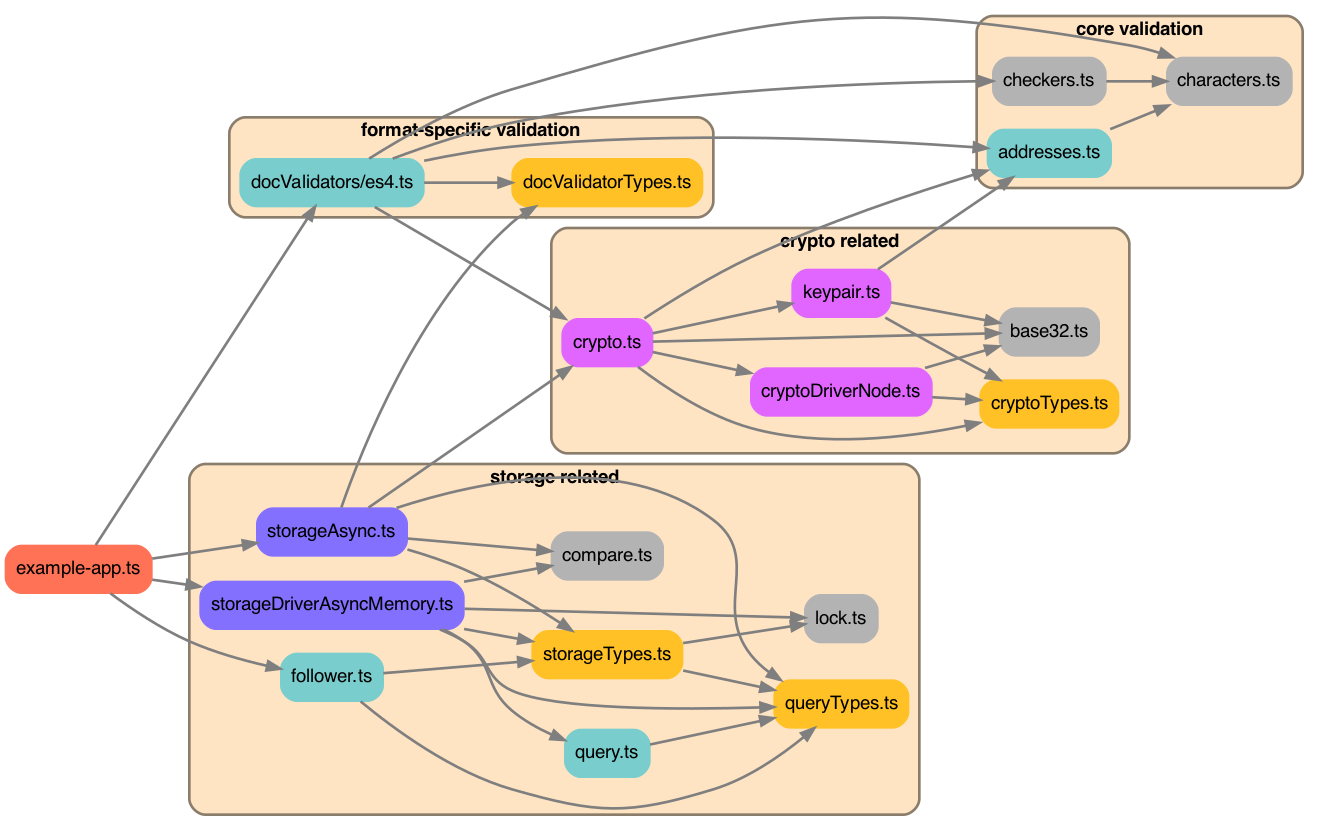
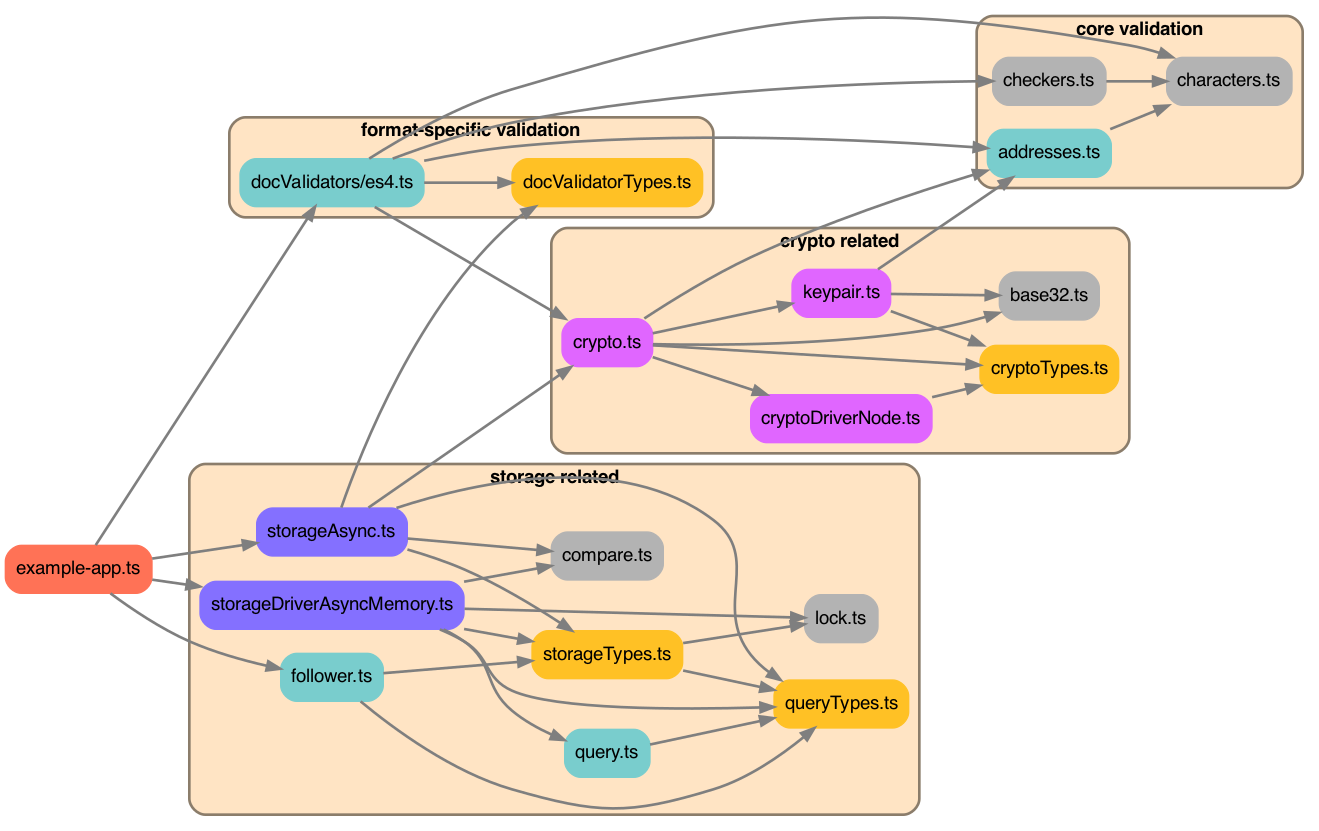
move base32 handling from cryptoDriver to crypto.ts

Changed region(s): [[0.4973, 0.3008, 0.8704, 0.5415]]

diff --git a/src/crypto/cryptoDriverNode.ts b/src/crypto/cryptoDriverNode.ts
@@ -1,16 +1,9 @@
 import crypto = require('crypto');
 
 import {
-    Base32String,
-} from '../types/docTypes';
-import {
     ICryptoDriver,
     KeypairBuffers,
 } from '../types/cryptoTypes';
-import {
-    base32StringToBuffer,
-    bufferToBase32String,
-} from '../base32';
 
 const _generateKeypairDerBuffers = (): KeypairBuffers => {
     // Typescript has outdated definitions, doesn't know about ed25519
@@ -58,10 +51,10 @@ export const CryptoDriverNode: ICryptoDriver = class {
     static generateKeypairBuffers(): KeypairBuffers {
         return _shortenDer(_generateKeypairDerBuffers());
     };
-    static sign(keypair: KeypairBuffers, msg: string | Buffer): Base32String {
+    static sign(keypair: KeypairBuffers, msg: string | Buffer): Buffer {
         if (typeof msg === 'string') { msg = Buffer.from(msg, 'utf8'); }
         // prettier-ignore
-        return bufferToBase32String(crypto.sign(
+        return crypto.sign(
             null,
             msg,
             {
@@ -69,9 +62,9 @@ export const CryptoDriverNode: ICryptoDriver = class {
                 format: 'der',
                 type: 'pkcs8',
             }
-        ));
+        );
     }
-    static verify(publicKey: Buffer, sig: Base32String, msg: string | Buffer): boolean {
+    static verify(publicKey: Buffer, sig: Buffer, msg: string | Buffer): boolean {
         if (typeof msg === 'string') { msg = Buffer.from(msg, 'utf8'); }
         try {
             // prettier-ignore
@@ -83,7 +76,7 @@ export const CryptoDriverNode: ICryptoDriver = class {
                     format: 'der',
                     type: 'spki',
                 } as any,
-                base32StringToBuffer(sig),
+                sig,
             );
         } catch (e) {
             return false;

diff --git a/src/crypto/crypto.ts b/src/crypto/crypto.ts
@@ -59,7 +59,7 @@ export let sign = (keypair: AuthorKeypair, msg: string | Buffer): Base32String |
     try {
         let keypairBuffers = decodeAuthorKeypair(keypair);
         if (isErr(keypairBuffers)) { return keypairBuffers; }
-        return CryptoDriver.sign(keypairBuffers, msg);
+        return bufferToBase32String(CryptoDriver.sign(keypairBuffers, msg));
     } catch (err) {
         return new ValidationError('crash while signing: ' + err.message);
     }
@@ -79,7 +79,7 @@ export let verify = (authorAddress: AuthorAddress, sig: Base32String, msg: strin
     try {
         let authorParsed = parseAuthorAddress(authorAddress);
         if (isErr(authorParsed)) { return false; }
-        return CryptoDriver.verify(base32StringToBuffer(authorParsed.pubkey), sig, msg);
+        return CryptoDriver.verify(base32StringToBuffer(authorParsed.pubkey), base32StringToBuffer(sig), msg);
     } catch (err) {
         throw err;
     }

diff --git a/src/types/cryptoTypes.ts b/src/types/cryptoTypes.ts
@@ -13,6 +13,6 @@ export interface KeypairBuffers {
 export interface ICryptoDriver {
     sha256(input: string | Buffer): Buffer;
     generateKeypairBuffers(): KeypairBuffers;
-    sign(keypair: KeypairBuffers, msg: string | Buffer): Base32String;
-    verify(publicKey: Buffer, sig: Base32String, msg: string | Buffer): boolean;
+    sign(keypair: KeypairBuffers, msg: string | Buffer): Buffer;
+    verify(publicKey: Buffer, sig: Buffer, msg: string | Buffer): boolean;
 }
